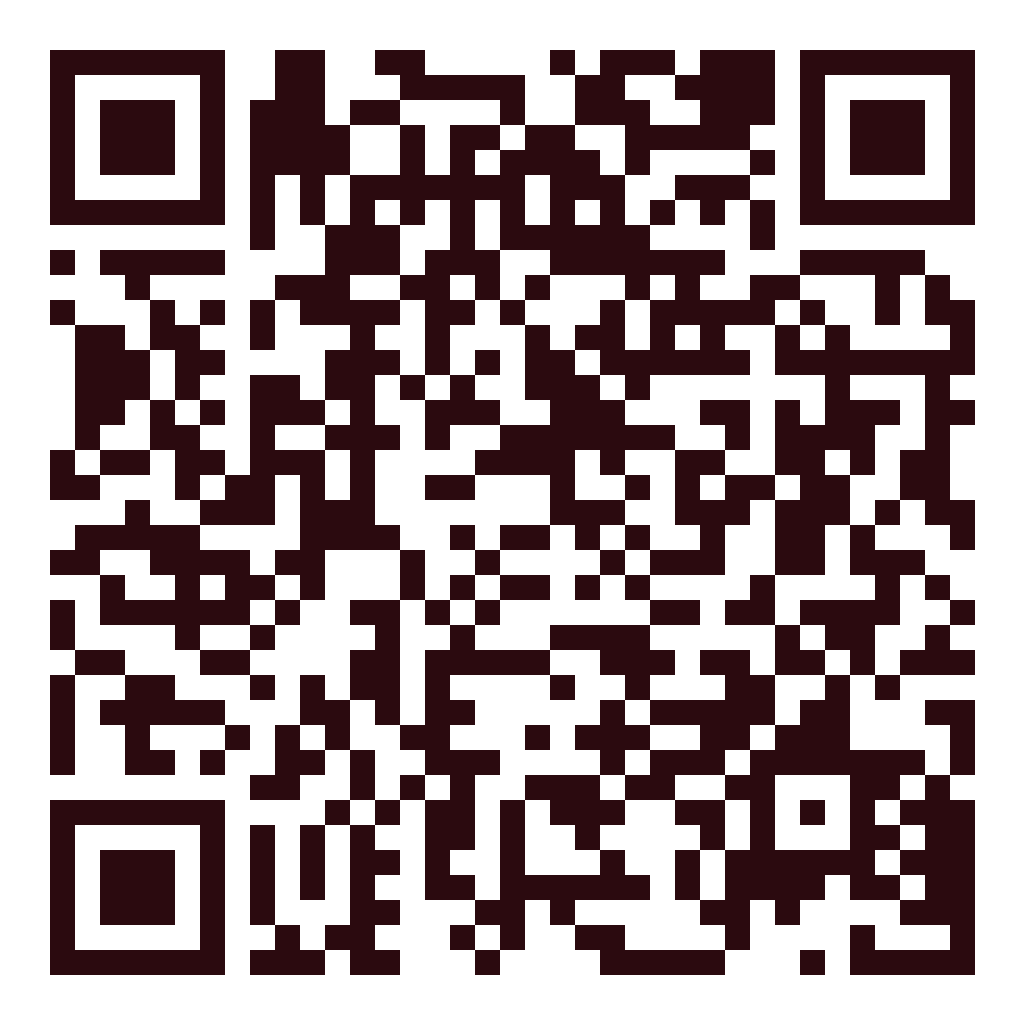
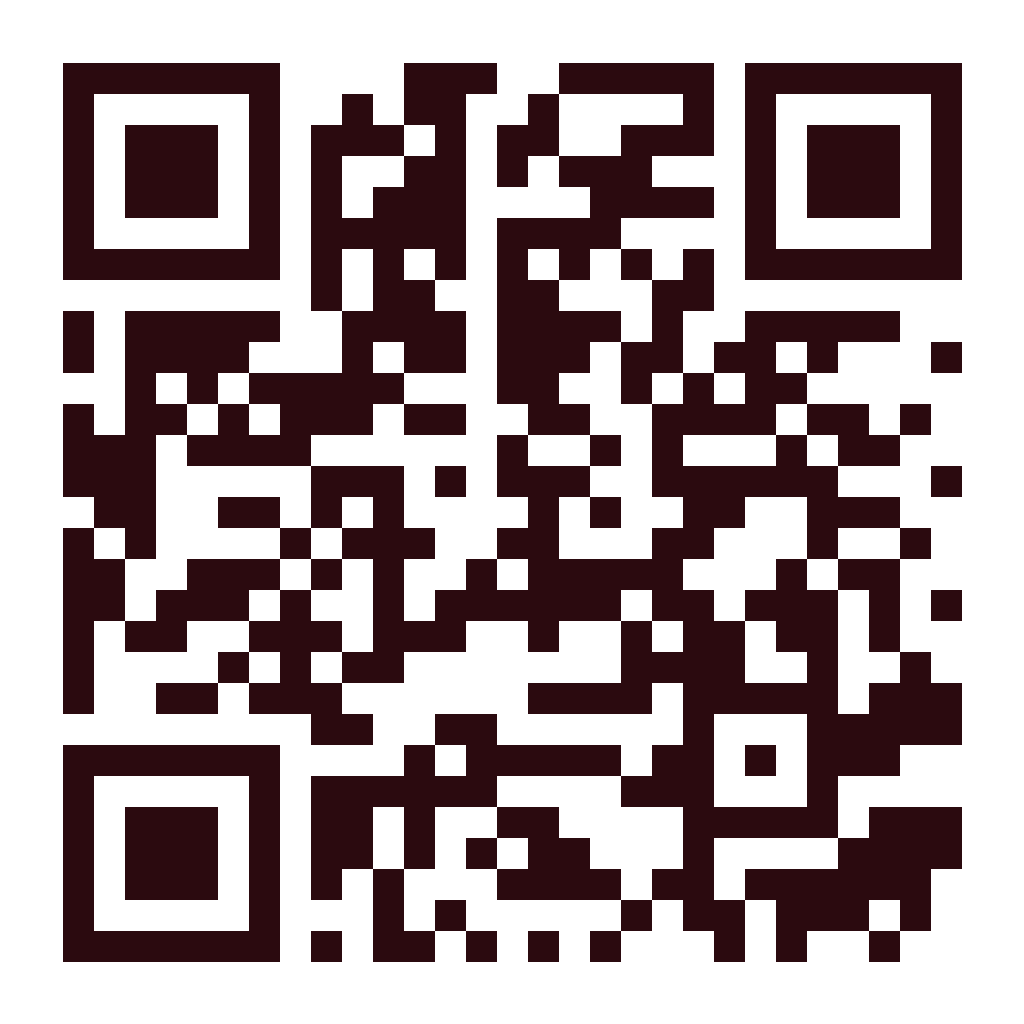
fix(review): switch to verified Google Maps review link & synchronous user gesture launch
- Replace synthetic placeid writereview link with official Google Business link (maps.app.goo.gl/aw86VcC2PLQ8iETQ8) which has the verified !18m1!1e1 write-review parameter
- Eliminate Google review submission error caused by unverified place ID
- Trigger clipboard copy and window.open synchronously to preserve user gesture on iOS/Android
- Regenerate direct Google Maps QR code

diff --git a/apps/web/src/components/ReviewAssistant.tsx b/apps/web/src/components/ReviewAssistant.tsx
@@ -111,14 +111,9 @@ const HIGHLIGHT_TAGS: HighlightTag[] = [
 ];
 
 /** Copy text to clipboard with multi-browser mobile fallbacks. */
-async function copyToClipboard(text: string): Promise<boolean> {
+function copyToClipboard(text: string): boolean {
   if (typeof navigator !== "undefined" && navigator.clipboard && navigator.clipboard.writeText) {
-    try {
-      await navigator.clipboard.writeText(text);
-      return true;
-    } catch {
-      // Fall through to textarea execCommand fallback
-    }
+    navigator.clipboard.writeText(text).catch(() => {});
   }
 
   try {
@@ -194,18 +189,20 @@ export function ReviewAssistant() {
     });
   }
 
-  async function handleCopyAndLaunch() {
-    // 1. Copy text to clipboard immediately
-    await copyToClipboard(reviewText);
+  function handleCopyAndLaunch() {
+    // 1. Copy text to clipboard immediately in synchronous user gesture
+    copyToClipboard(reviewText);
     setHasCopied(true);
 
-    // 2. Open Google Review dialog directly
-    // Direct location assignment opens the Google Maps app's native review screen on Android/iOS
+    // 2. Open Google Maps review URL
     const directUrl = business.googleWriteReviewUrl;
     try {
-      window.location.href = directUrl;
+      const win = window.open(directUrl, "_blank", "noopener,noreferrer");
+      if (!win || win.closed || typeof win.closed === "undefined") {
+        window.location.href = directUrl;
+      }
     } catch {
-      window.open(directUrl, "_blank", "noopener,noreferrer");
+      window.location.href = directUrl;
     }
   }
 

diff --git a/apps/web/src/lib/business.ts b/apps/web/src/lib/business.ts
@@ -36,9 +36,8 @@ export const business = {
       "Hi, I'd like to book a consultation at RedCity Dental Care.",
     ),
   googleBusinessUrl: "https://maps.app.goo.gl/aw86VcC2PLQ8iETQ8",
-  /** Opens the Google Maps "Write a review" dialog directly (no extra navigation). */
-  googleWriteReviewUrl:
-    "https://search.google.com/local/writereview?placeid=ChIJCeVdbG-vgxo5EcdqbCZ8Rv70",
+  /** Official Google Maps review action link for Red City Dental Care (verified by clinic). */
+  googleWriteReviewUrl: "https://maps.app.goo.gl/aw86VcC2PLQ8iETQ8",
   googleRating: 5.0,
   // TODO(business-content): number of Google reviews — shown next to the
   // rating once known. Leave null rather than guessing.
